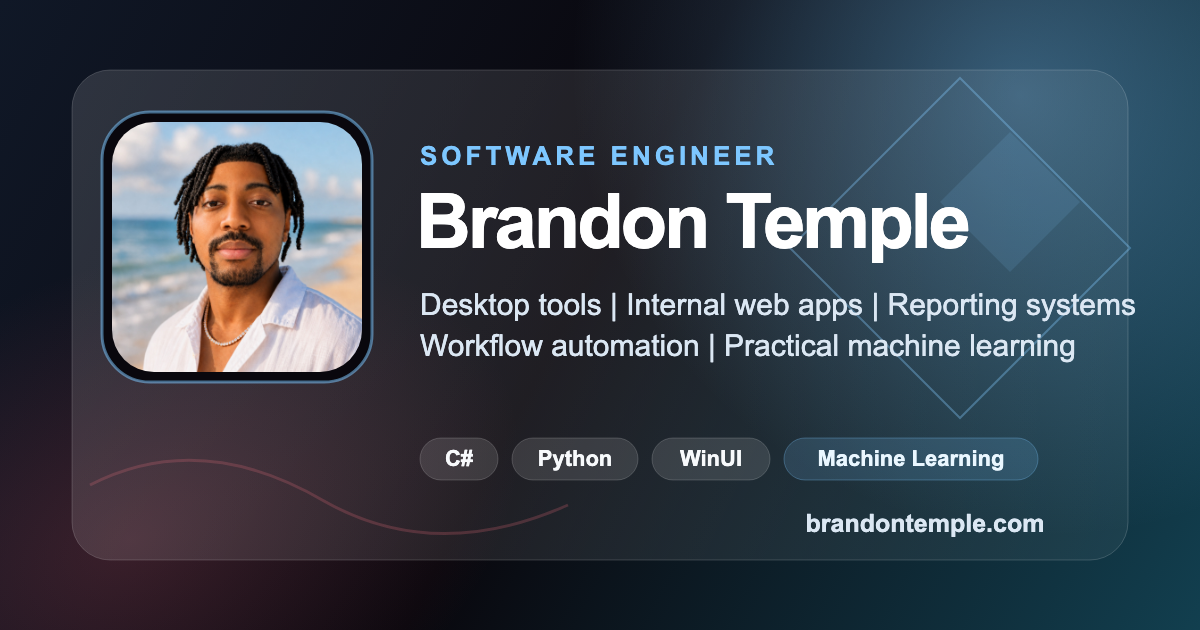
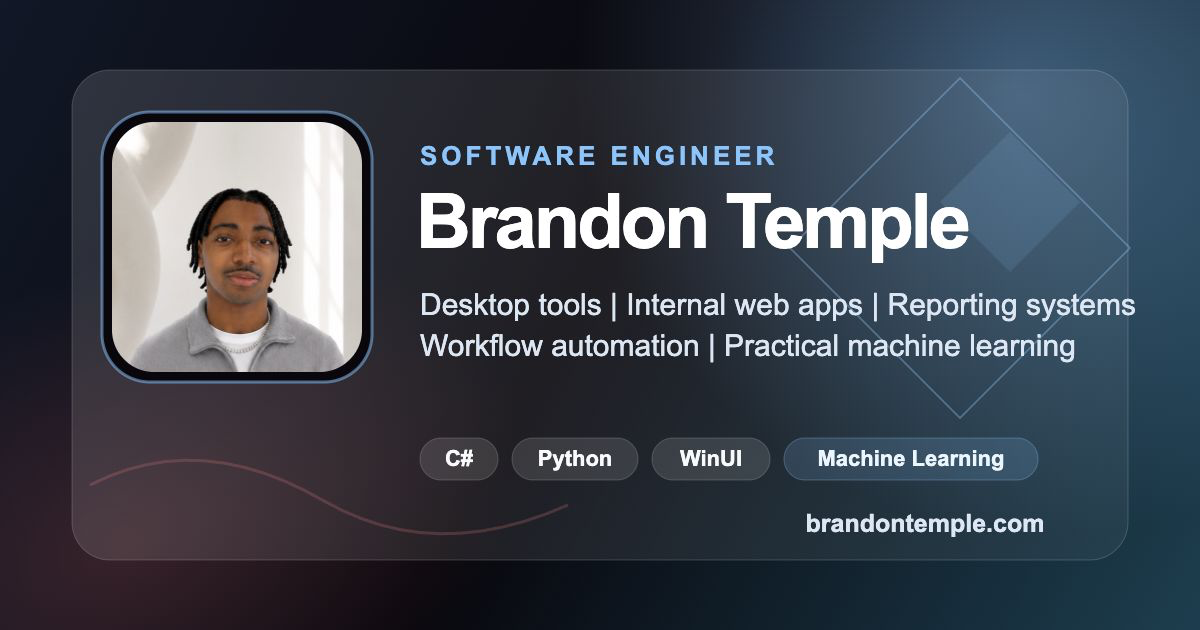
Replace beach portrait with studio photo

Changed region(s): [[0.0925, 0.181, 0.3083, 0.6032], [0.3392, 0.2111, 0.6475, 0.2714]]

diff --git a/index.html b/index.html
@@ -15,30 +15,30 @@
     </script>
     <link rel="canonical" href="https://brandontemple.com/">
     <link rel="alternate" type="application/pdf" href="https://brandontemple.com/resume/brandon-temple-resume.pdf" title="Brandon Temple resume PDF">
-    <link rel="icon" href="/favicon.ico?v=20260514-main-photo" sizes="any">
-    <link rel="shortcut icon" href="/favicon.ico?v=20260514-main-photo">
-    <link rel="icon" href="/assets/images/favicon.png?v=20260514-main-photo" type="image/png" sizes="192x192">
-    <link rel="apple-touch-icon" href="/assets/images/apple-touch-icon.png?v=20260514-main-photo" sizes="180x180">
-    <link rel="preload" as="image" type="image/webp" href="/assets/images/brandon-profile-photo-960.webp?v=20260722-editorial" imagesrcset="/assets/images/brandon-profile-photo-420.webp?v=20260722-editorial 420w, /assets/images/brandon-profile-photo-720.webp?v=20260722-editorial 720w, /assets/images/brandon-profile-photo-960.webp?v=20260722-editorial 960w, /assets/images/brandon-profile-photo-1120.webp?v=20260722-editorial 1120w" imagesizes="(max-width: 768px) calc(100vw - 2rem), 390px" fetchpriority="high">
+    <link rel="icon" href="/favicon.ico?v=20260723-studio-photo" sizes="any">
+    <link rel="shortcut icon" href="/favicon.ico?v=20260723-studio-photo">
+    <link rel="icon" href="/assets/images/favicon.png?v=20260723-studio-photo" type="image/png" sizes="192x192">
+    <link rel="apple-touch-icon" href="/assets/images/apple-touch-icon.png?v=20260723-studio-photo" sizes="180x180">
+    <link rel="preload" as="image" type="image/webp" href="/assets/images/brandon-profile-photo-960.webp?v=20260723-studio-photo" imagesrcset="/assets/images/brandon-profile-photo-420.webp?v=20260723-studio-photo 420w, /assets/images/brandon-profile-photo-720.webp?v=20260723-studio-photo 720w, /assets/images/brandon-profile-photo-960.webp?v=20260723-studio-photo 960w, /assets/images/brandon-profile-photo-1120.webp?v=20260723-studio-photo 1120w" imagesizes="(max-width: 768px) calc(100vw - 2rem), 390px" fetchpriority="high">
     <meta property="og:type" content="profile">
     <meta property="og:title" content="Brandon Temple | Software Engineer Portfolio">
     <meta property="og:description" content="Official portfolio for Brandon Vashun Temple, a software engineer building workflow, data, and product systems across .NET, browser reporting, Firebase, Python/SQL, native Apple apps, APIs, and local AI.">
     <meta property="og:url" content="https://brandontemple.com/">
     <meta property="og:site_name" content="Brandon Temple">
     <meta property="og:locale" content="en_US">
-    <meta property="og:image" content="https://brandontemple.com/assets/images/social-preview.png?v=20260514-main-photo">
-    <meta property="og:image:secure_url" content="https://brandontemple.com/assets/images/social-preview.png?v=20260514-main-photo">
+    <meta property="og:image" content="https://brandontemple.com/assets/images/social-preview.png?v=20260723-studio-photo">
+    <meta property="og:image:secure_url" content="https://brandontemple.com/assets/images/social-preview.png?v=20260723-studio-photo">
     <meta property="og:image:type" content="image/png">
     <meta property="og:image:width" content="1200">
     <meta property="og:image:height" content="630">
-    <meta property="og:image:alt" content="Brandon Temple software engineer portfolio card with a beach portrait and C#, Python, WinUI, and machine learning skills">
+    <meta property="og:image:alt" content="Brandon Temple software engineer portfolio card with a bright studio portrait and C#, Python, WinUI, and machine learning skills">
     <meta property="profile:first_name" content="Brandon">
     <meta property="profile:last_name" content="Temple">
     <meta name="twitter:card" content="summary_large_image">
     <meta name="twitter:title" content="Brandon Temple | Software Engineer Portfolio">
     <meta name="twitter:description" content="Official portfolio for Brandon Vashun Temple, a software engineer building workflow, data, and product systems across .NET, browser reporting, Firebase, Python/SQL, native Apple apps, APIs, and local AI.">
-    <meta name="twitter:image" content="https://brandontemple.com/assets/images/social-preview.png?v=20260514-main-photo">
-    <meta name="twitter:image:alt" content="Brandon Temple software engineer portfolio card with a beach portrait and C#, Python, WinUI, and machine learning skills">
+    <meta name="twitter:image" content="https://brandontemple.com/assets/images/social-preview.png?v=20260723-studio-photo">
+    <meta name="twitter:image:alt" content="Brandon Temple software engineer portfolio card with a bright studio portrait and C#, Python, WinUI, and machine learning skills">
     <script type="application/ld+json">
     {
         "@context": "https://schema.org",
@@ -132,10 +132,10 @@
                 "@id": "https://brandontemple.com/#profile-image",
                 "url": "https://brandontemple.com/assets/images/brandon-profile-photo.jpg",
                 "contentUrl": "https://brandontemple.com/assets/images/brandon-profile-photo.jpg",
-                "width": 1120,
-                "height": 1400,
+                "width": 1024,
+                "height": 1280,
                 "name": "Brandon Temple profile portrait",
-                "caption": "Brandon Temple wearing a white shirt at a beach with the ocean and blue sky behind him.",
+                "caption": "Brandon Temple wearing a light gray zip jacket in a bright white studio with sculptural artwork.",
                 "description": "Primary professional portrait of software engineer Brandon Vashun Temple.",
                 "representativeOfPage": true
             },
@@ -166,7 +166,7 @@
                 "url": "https://brandontemple.com/",
                 "name": "Brandon Temple | Software Engineer Portfolio",
                 "description": "Official portfolio for Brandon Vashun Temple, a software engineer building workflow, data, and product systems across .NET, browser reporting, Firebase, Python/SQL, native Apple apps, APIs, and local AI.",
-                "dateModified": "2026-07-22",
+                "dateModified": "2026-07-23",
                 "inLanguage": "en-US",
                 "isPartOf": {
                     "@id": "https://brandontemple.com/#website"
@@ -719,10 +719,10 @@
             <div class="hero-collage">
                 <div class="hero-photo-shell">
                     <picture>
-                        <source type="image/webp" srcset="/assets/images/brandon-profile-photo-420.webp?v=20260722-editorial 420w, /assets/images/brandon-profile-photo-720.webp?v=20260722-editorial 720w, /assets/images/brandon-profile-photo-960.webp?v=20260722-editorial 960w, /assets/images/brandon-profile-photo-1120.webp?v=20260722-editorial 1120w" sizes="(max-width: 768px) calc(100vw - 2rem), 390px">
-                        <img src="/assets/images/brandon-profile-photo.jpg?v=20260722-editorial" alt="Brandon Temple wearing a white shirt at a beach with the ocean and blue sky behind him" width="1120" height="1400" class="hero-profile-image" fetchpriority="high" decoding="async">
+                        <source type="image/webp" srcset="/assets/images/brandon-profile-photo-420.webp?v=20260723-studio-photo 420w, /assets/images/brandon-profile-photo-720.webp?v=20260723-studio-photo 720w, /assets/images/brandon-profile-photo-960.webp?v=20260723-studio-photo 960w, /assets/images/brandon-profile-photo-1120.webp?v=20260723-studio-photo 1120w" sizes="(max-width: 768px) calc(100vw - 2rem), 390px">
+                        <img src="/assets/images/brandon-profile-photo.jpg?v=20260723-studio-photo" alt="Brandon Temple wearing a light gray zip jacket in a bright white studio with sculptural artwork" width="1024" height="1280" class="hero-profile-image" fetchpriority="high" decoding="async">
                     </picture>
-                    <a href="/assets/images/brandon-profile-photo.jpg?v=20260722-editorial" download="brandon-temple-profile-photo.jpg" class="image-download-button" aria-label="Download Brandon Temple profile photo">
+                    <a href="/assets/images/brandon-profile-photo.jpg?v=20260723-studio-photo" download="brandon-temple-studio-profile-photo.jpg" class="image-download-button" aria-label="Download Brandon Temple profile photo">
                         <svg width="22" height="22" viewBox="0 0 24 24" fill="none" stroke="currentColor" stroke-width="2.2" stroke-linecap="round" stroke-linejoin="round" aria-hidden="true" focusable="false">
                             <path d="M12 3v12"></path>
                             <path d="m7 10 5 5 5-5"></path>

diff --git a/resume/index.html b/resume/index.html
@@ -10,27 +10,27 @@
     <meta name="theme-color" content="#050505">
     <link rel="canonical" href="https://brandontemple.com/resume/">
     <link rel="alternate" type="application/pdf" href="https://brandontemple.com/resume/brandon-temple-resume.pdf" title="Brandon Temple resume PDF">
-    <link rel="icon" href="/favicon.ico" sizes="any">
-    <link rel="shortcut icon" href="/favicon.ico">
-    <link rel="icon" href="/assets/images/favicon.png" type="image/png" sizes="192x192">
-    <link rel="apple-touch-icon" href="/assets/images/apple-touch-icon.png" sizes="180x180">
+    <link rel="icon" href="/favicon.ico?v=20260723-studio-photo" sizes="any">
+    <link rel="shortcut icon" href="/favicon.ico?v=20260723-studio-photo">
+    <link rel="icon" href="/assets/images/favicon.png?v=20260723-studio-photo" type="image/png" sizes="192x192">
+    <link rel="apple-touch-icon" href="/assets/images/apple-touch-icon.png?v=20260723-studio-photo" sizes="180x180">
     <meta property="og:type" content="profile">
     <meta property="og:title" content="Brandon Temple Resume | Software Engineer">
     <meta property="og:description" content="Resume for Brandon Vashun Temple, software engineer building workflow and data systems with C#/.NET, Python, SQL, APIs, browser-based reporting, Excel exports, and AI-assisted tools.">
     <meta property="og:url" content="https://brandontemple.com/resume/">
     <meta property="og:site_name" content="Brandon Temple">
     <meta property="og:locale" content="en_US">
-    <meta property="og:image" content="https://brandontemple.com/assets/images/social-preview.png">
-    <meta property="og:image:secure_url" content="https://brandontemple.com/assets/images/social-preview.png">
+    <meta property="og:image" content="https://brandontemple.com/assets/images/social-preview.png?v=20260723-studio-photo">
+    <meta property="og:image:secure_url" content="https://brandontemple.com/assets/images/social-preview.png?v=20260723-studio-photo">
     <meta property="og:image:type" content="image/png">
     <meta property="og:image:width" content="1200">
     <meta property="og:image:height" content="630">
-    <meta property="og:image:alt" content="Brandon Temple software engineer portfolio card with a beach portrait and C#, Python, WinUI, and machine learning skills">
+    <meta property="og:image:alt" content="Brandon Temple software engineer portfolio card with a bright studio portrait and C#, Python, WinUI, and machine learning skills">
     <meta name="twitter:card" content="summary_large_image">
     <meta name="twitter:title" content="Brandon Temple Resume | Software Engineer">
     <meta name="twitter:description" content="Resume for Brandon Vashun Temple, software engineer building workflow and data systems with C#/.NET, Python, SQL, APIs, browser-based reporting, Excel exports, and AI-assisted tools.">
-    <meta name="twitter:image" content="https://brandontemple.com/assets/images/social-preview.png">
-    <meta name="twitter:image:alt" content="Brandon Temple software engineer portfolio card with a beach portrait and C#, Python, WinUI, and machine learning skills">
+    <meta name="twitter:image" content="https://brandontemple.com/assets/images/social-preview.png?v=20260723-studio-photo">
+    <meta name="twitter:image:alt" content="Brandon Temple software engineer portfolio card with a bright studio portrait and C#, Python, WinUI, and machine learning skills">
     <script type="application/ld+json">
     {
         "@context": "https://schema.org",
